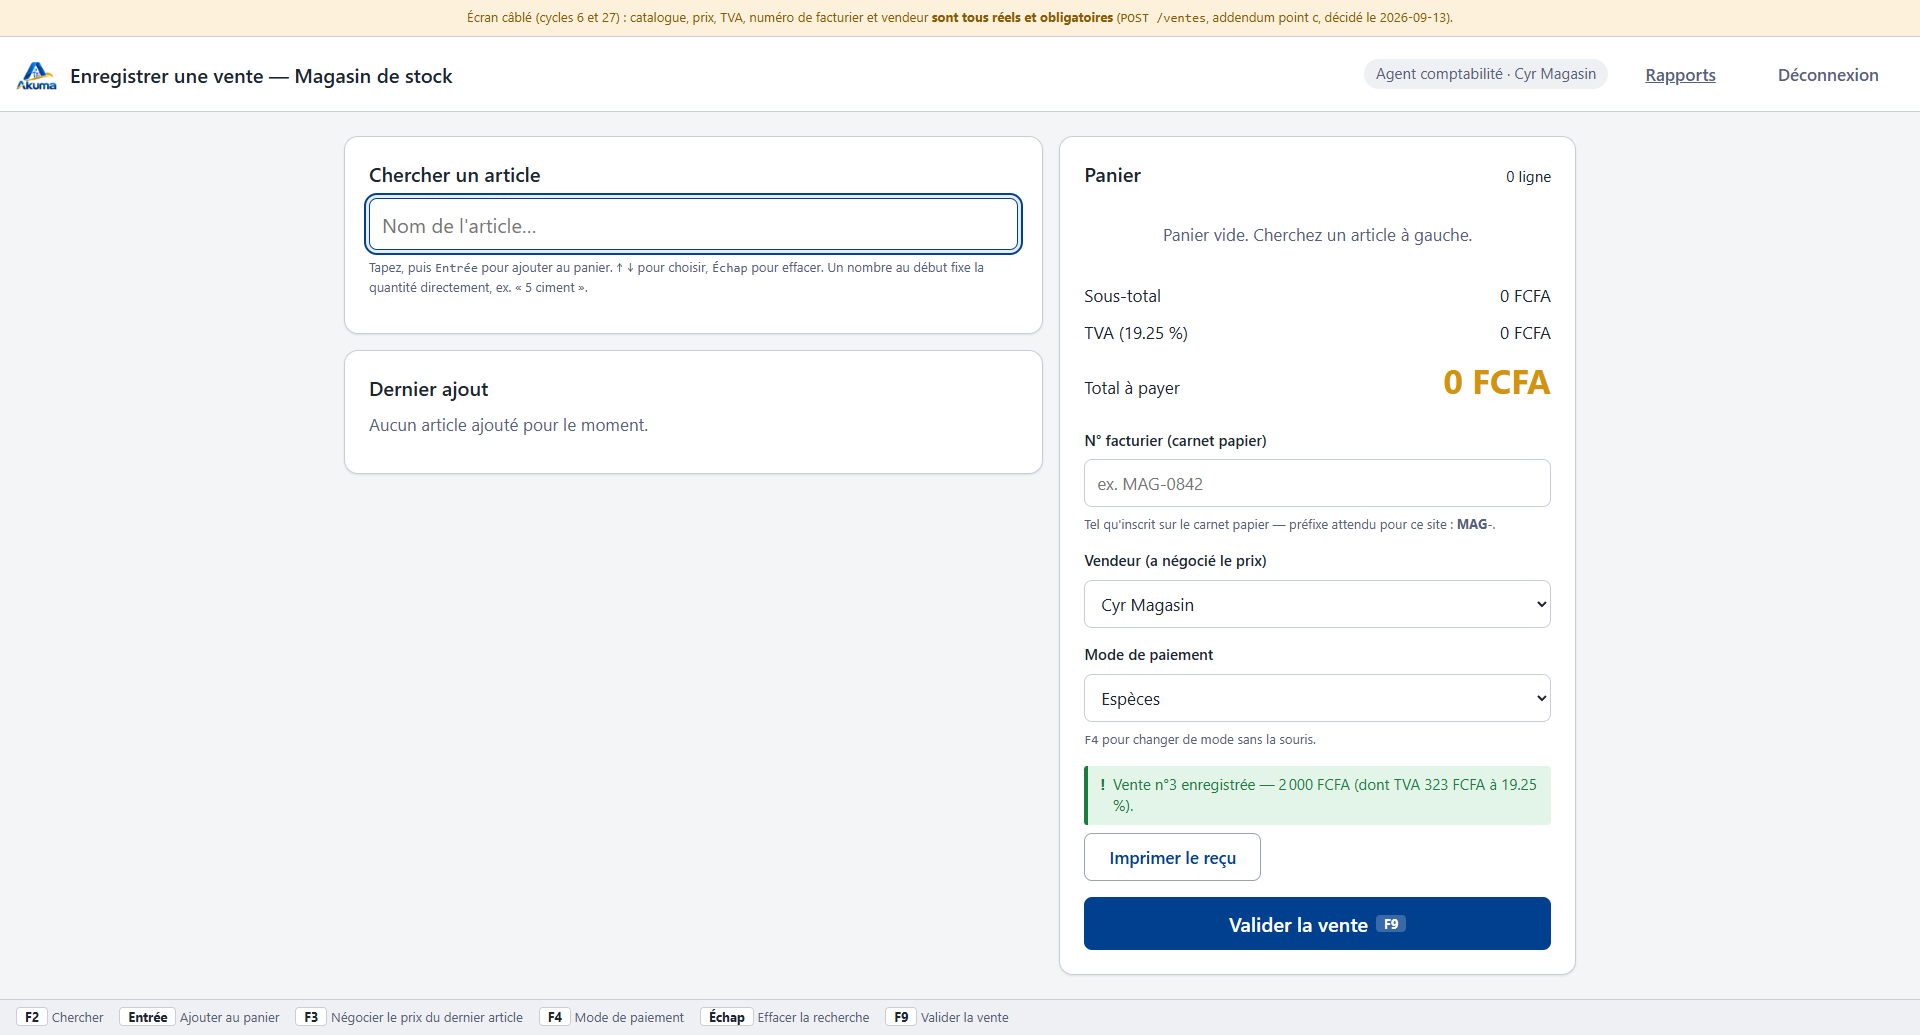
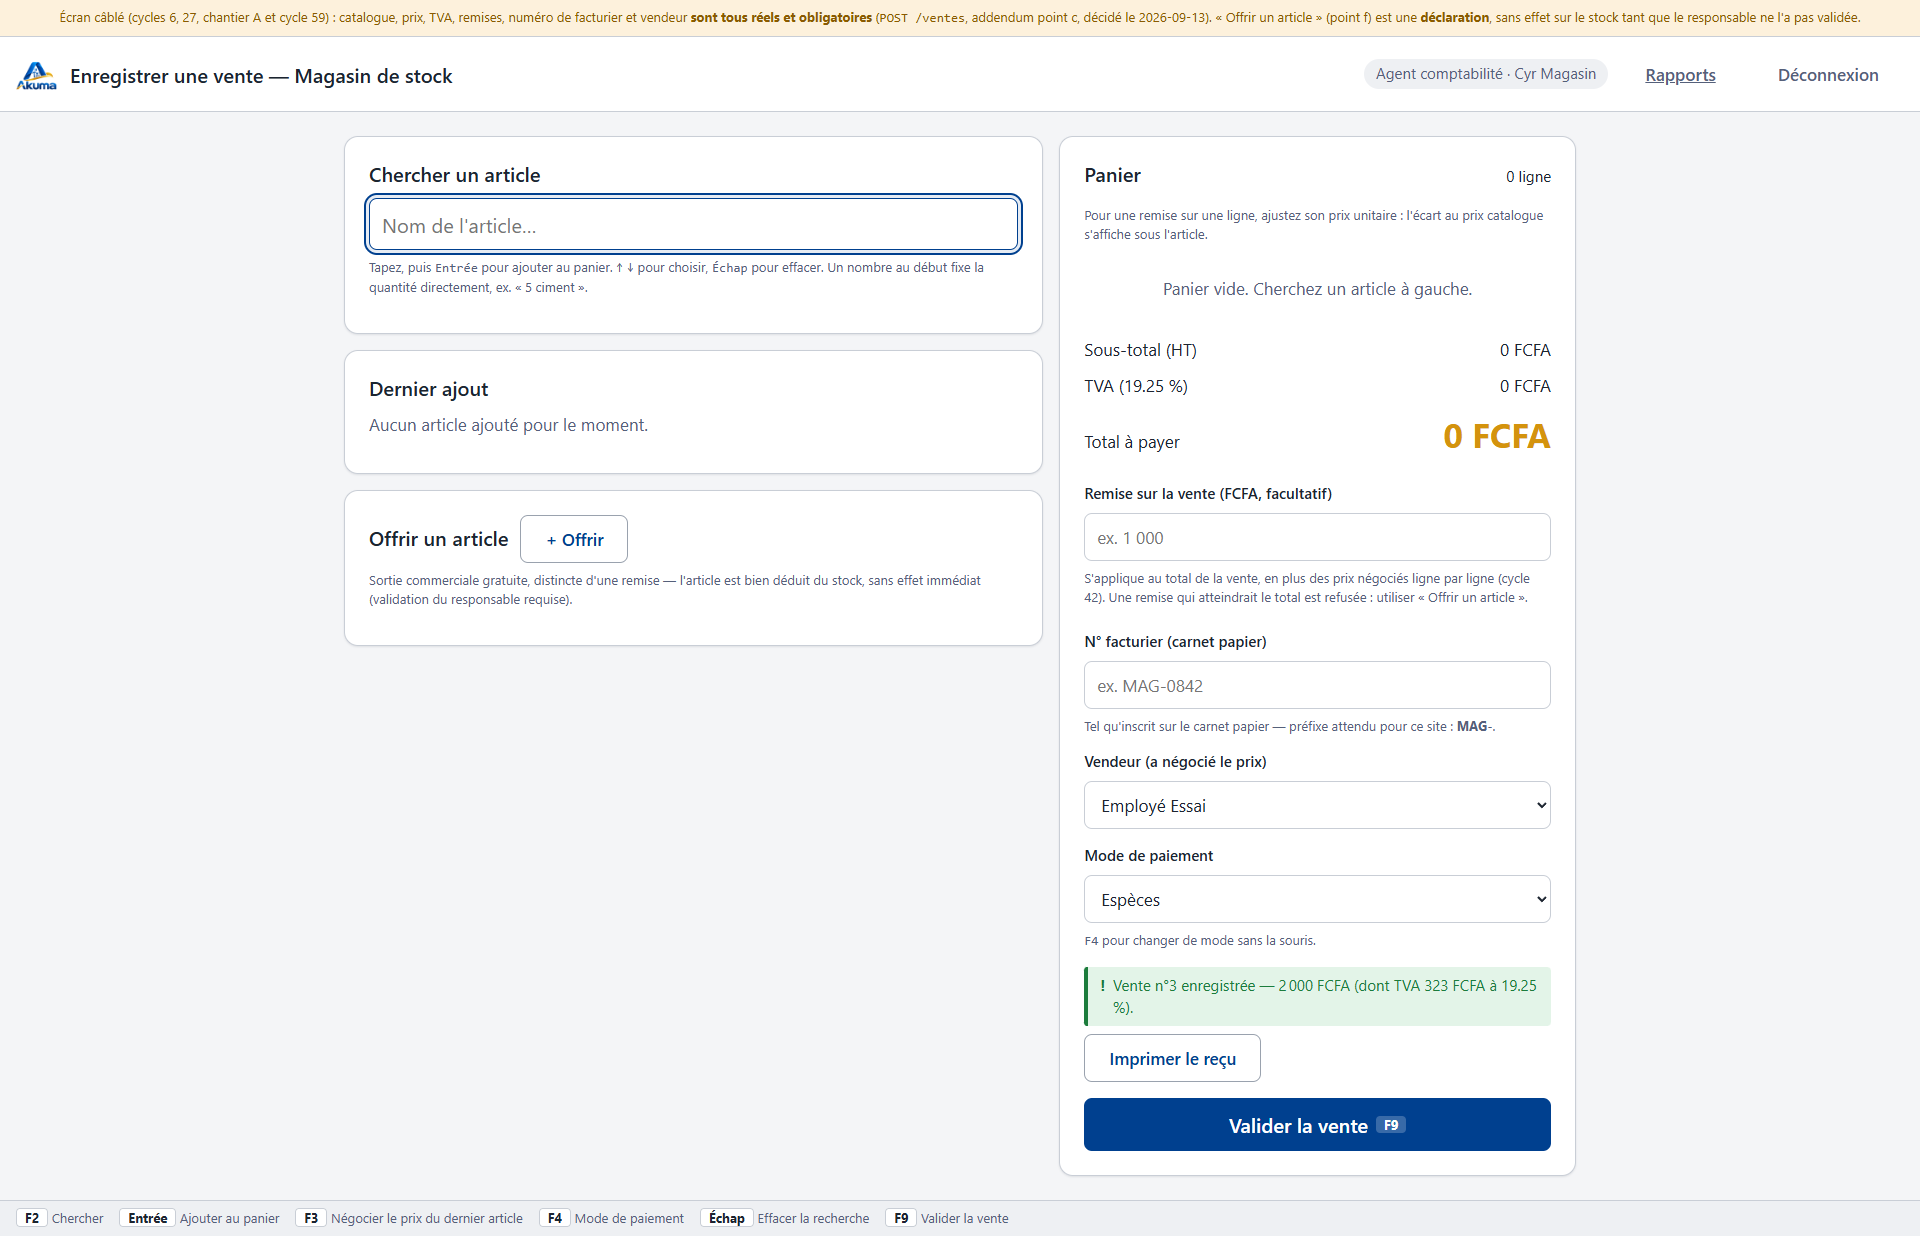
Saisie des remises dans vente.html — remise par ligne et remise globale, aperçu et garde-fou (cycle 59, C5)
Remise par ligne : l'écart au prix catalogue est affiché sous l'article
(la remise reste portée par le prix négocié, règle du serveur cycle 42,
jamais un champ en doublon). Remise globale : champ dédié, total articles
TTC, total réduit, TVA extraite, refus AVANT envoi si la remise atteint
le total (l'article offert couvre ce cas), montant rappelé dans la
confirmation et dans le message de succès.

Aucun changement serveur ni migration (backend livré au cycle 42).
Vérifié : Playwright vente 28/28, câblage 94/94, pytest 297/297.

diff --git a/maquette/vente.html b/maquette/vente.html
@@ -21,7 +21,7 @@
 </style>
 </head>
 <body>
-<div class="simu">Écran câblé (cycles 6, 27 et chantier A) : catalogue, prix, TVA, numéro de facturier et vendeur <strong>sont tous réels et obligatoires</strong> (<code>POST /ventes</code>, addendum point c, décidé le 2026-09-13). « Offrir un article » (point f) est une <strong>déclaration</strong>, sans effet sur le stock tant que le responsable ne l'a pas validée.</div>
+<div class="simu">Écran câblé (cycles 6, 27, chantier A et cycle 59) : catalogue, prix, TVA, remises, numéro de facturier et vendeur <strong>sont tous réels et obligatoires</strong> (<code>POST /ventes</code>, addendum point c, décidé le 2026-09-13). « Offrir un article » (point f) est une <strong>déclaration</strong>, sans effet sur le stock tant que le responsable ne l'a pas validée.</div>
 <div class="page">
   <header class="bandeau bandeau--vente">
     <img class="bandeau__marque" src="assets/akuma-logo-compact.png" alt="Akuma">
@@ -106,16 +106,37 @@
             <span class="lien-petit" id="compteur-lignes">0 ligne</span>
           </div>
 
+          <p class="champ__aide" style="margin-bottom:var(--e-2);">
+            Pour une remise sur une ligne, ajustez son prix unitaire : l'écart au prix catalogue s'affiche sous l'article.
+          </p>
+
           <div id="panier"></div>
 
+          <div class="total-ligne" id="ligne-total-articles" hidden>
+            <span>Total articles (TTC)</span><span class="montant" id="total-articles">0 FCFA</span>
+          </div>
+          <div class="total-ligne" id="ligne-remise-globale" hidden>
+            <span>Remise sur la vente</span><span class="montant" id="remise-globale-affichee">0 FCFA</span>
+          </div>
           <div class="total-ligne">
-            <span>Sous-total</span><span class="montant" id="sous-total">0 FCFA</span>
+            <span>Sous-total (HT)</span><span class="montant" id="sous-total">0 FCFA</span>
           </div>
           <div class="total-ligne">
             <span>TVA (<span id="taux-tva">0</span> %)</span><span class="montant" id="montant-tva">0 FCFA</span>
           </div>
           <div class="total-ligne total-ligne--grand">
             <span>Total à payer</span><span class="montant" id="total-ttc">0 FCFA</span>
+          </div>
+
+          <div class="champ" style="margin-top:var(--e-5);">
+            <label class="champ__label" for="remise-globale">Remise sur la vente (FCFA, facultatif)</label>
+            <input class="champ__saisie" id="remise-globale" type="number" min="0" step="50"
+                   inputmode="numeric" placeholder="ex. 1 000">
+            <p class="champ__aide">
+              S'applique au total de la vente, en plus des prix négociés ligne par ligne (cycle 42).
+              Une remise qui atteindrait le total est refusée : utiliser « Offrir un article ».
+            </p>
+            <div id="zone-erreur-remise" class="erreur-champ" hidden style="margin-top:var(--e-2);"></div>
           </div>
 
           <div class="champ" id="champ-site" style="margin-top:var(--e-5);" hidden>
@@ -216,6 +237,7 @@
   const siteVenteEl = $("site-vente");
   const facturierEl = $("numero-facturier");
   const vendeurEl   = $("vendeur");
+  const remiseGlobaleEl = $("remise-globale");
 
   // Le responsable couvre les deux sites : il doit choisir celui de CETTE
   // vente. Un agent comptabilité a déjà un site en session, la question ne
@@ -474,6 +496,10 @@
       panier.push({
         id: article.id, nom: article.nom, unite: article.unite,
         quantite: quantite, prixUnitaire: article.prixCatalogue,
+        // Prix catalogue conservé pour afficher la remise de la ligne : le
+        // serveur applique exactement la même règle (cycle 42) — la remise
+        // est l'écart entre catalogue et prix négocié, jamais un champ séparé.
+        prixCatalogue: article.prixCatalogue,
       });
     }
     dernierArticleAjouteId = article.id;
@@ -494,6 +520,22 @@
     panier = panier.filter((l) => l.id !== id);
     rendrePanier();
     recherche.focus();
+  }
+
+  // Remise d'une ligne = écart au prix catalogue (règle du serveur, cycle
+  // 42). Affichée sous l'article pour que la remise issue du prix négocié
+  // soit visible AVANT validation, au lieu de n'exister que sur le reçu.
+  function texteRemiseLigne(l) {
+    if (!l.prixCatalogue || l.prixUnitaire >= l.prixCatalogue) return "";
+    const remise = l.prixCatalogue - l.prixUnitaire;
+    const pct = Math.round((remise / l.prixCatalogue) * 1000) / 10;
+    return "Catalogue " + fcfa(l.prixCatalogue) + " · remise " + fcfa(remise)
+      + " (" + pct.toLocaleString("fr-FR") + " %)";
+  }
+
+  function remiseGlobaleValeur() {
+    const valeur = parseInt(remiseGlobaleEl.value || "0", 10);
+    return Number.isFinite(valeur) && valeur > 0 ? valeur : 0;
   }
 
   function rendrePanier() {
@@ -519,8 +561,14 @@
         uniteDiv.style.color = "var(--c-texte-doux)";
         uniteDiv.style.fontSize = "var(--t-sm)";
         uniteDiv.textContent = l.unite;
+        const remiseDiv = document.createElement("div");
+        remiseDiv.className = "panier__remise";
+        const texteRemise = texteRemiseLigne(l);
+        remiseDiv.textContent = texteRemise;
+        remiseDiv.hidden = !texteRemise;
         infos.appendChild(nomDiv);
         infos.appendChild(uniteDiv);
+        infos.appendChild(remiseDiv);
 
         const qteInput = document.createElement("input");
         qteInput.className = "panier__mini";
@@ -555,7 +603,13 @@
         ligne.appendChild(btnSup);
 
         qteInput.addEventListener("input", () => { l.quantite = Math.max(1, parseInt(qteInput.value || "1", 10)); majTotaux(); });
-        prixInput.addEventListener("input", () => { l.prixUnitaire = Math.max(0, parseInt(prixInput.value || "0", 10)); majTotaux(); });
+        prixInput.addEventListener("input", () => {
+          l.prixUnitaire = Math.max(0, parseInt(prixInput.value || "0", 10));
+          const texte = texteRemiseLigne(l);
+          remiseDiv.textContent = texte;
+          remiseDiv.hidden = !texte;
+          majTotaux();
+        });
         [qteInput, prixInput].forEach((inp) => inp.addEventListener("keydown", (e) => {
           if (e.key === "Enter") { e.preventDefault(); recherche.focus(); }
           if (e.key === "Escape") { e.preventDefault(); recherche.focus(); }
@@ -571,8 +625,12 @@
     // Les prix saisis sont TTC (addendum, point d, décidé cycle 6) : la TVA
     // s'EXTRAIT du total, elle ne s'ajoute pas par-dessus — même formule que
     // server/app/routes/ventes.py, pour que cet aperçu corresponde exactement
-    // à ce que le serveur confirmera après validation.
-    const totalTtc = panier.reduce((s, l) => s + l.quantite * l.prixUnitaire, 0);
+    // à ce que le serveur confirmera après validation. La remise globale
+    // (cycle 42, mécanisme distinct des prix négociés) réduit d'abord le TTC
+    // de la vente ; la TVA est ensuite extraite de ce total réduit.
+    const totalArticles = panier.reduce((s, l) => s + l.quantite * l.prixUnitaire, 0);
+    const remiseGlobale = remiseGlobaleValeur();
+    const totalTtc = Math.max(0, totalArticles - remiseGlobale);
     const tva = TAUX_TVA > 0 ? Math.round(totalTtc * TAUX_TVA / (100 + TAUX_TVA)) : 0;
     const sousTotalHt = totalTtc - tva;
     $("sous-total").textContent  = fcfa(sousTotalHt);
@@ -580,7 +638,28 @@
     $("montant-tva").textContent = fcfa(tva);
     $("total-ttc").textContent   = fcfa(totalTtc);
     $("compteur-lignes").textContent = panier.length + (panier.length > 1 ? " lignes" : " ligne");
+
+    // Les deux lignes « avant remise » n'apparaissent que si une remise
+    // globale est réellement saisie — sinon l'écran reste exactement celui
+    // d'avant le cycle 59.
+    const remiseAffichee = remiseGlobale > 0 && panier.length > 0;
+    $("ligne-total-articles").hidden = !remiseAffichee;
+    $("ligne-remise-globale").hidden = !remiseAffichee;
+    $("total-articles").textContent = fcfa(totalArticles);
+    $("remise-globale-affichee").textContent = fcfa(remiseGlobale);
+
+    const remiseTropGrande = remiseAffichee && remiseGlobale >= totalArticles;
+    const zoneRemise = $("zone-erreur-remise");
+    zoneRemise.hidden = !remiseTropGrande;
+    if (remiseTropGrande) {
+      zoneRemise.textContent = "La remise globale ne peut pas atteindre ni dépasser le total de la vente.";
+    }
   }
+
+  remiseGlobaleEl.addEventListener("input", majTotaux);
+  remiseGlobaleEl.addEventListener("keydown", (e) => {
+    if (e.key === "Enter" || e.key === "Escape") { e.preventDefault(); recherche.focus(); }
+  });
 
   // --- Validation (au plus une confirmation), RÉELLE (POST /ventes) ---
   let enAttenteConfirmation = false;
@@ -602,6 +681,14 @@
     if (panier.length === 0) {
       zoneConfirmation.hidden = false;
       zoneConfirmation.textContent = "Le panier est vide : rien à valider.";
+      return;
+    }
+    const totalArticles = panier.reduce((s, l) => s + l.quantite * l.prixUnitaire, 0);
+    const remiseGlobale = remiseGlobaleValeur();
+    if (remiseGlobale > 0 && remiseGlobale >= totalArticles) {
+      zoneConfirmation.hidden = false;
+      zoneConfirmation.textContent = "La remise globale ne peut pas atteindre ni dépasser le total de la vente.";
+      remiseGlobaleEl.focus();
       return;
     }
     if (!session.site_id && !siteVenteEl.value) {
@@ -629,10 +716,11 @@
       enAttenteConfirmation = true;
       zoneConfirmation.hidden = false;
       const estCredit = paiementEl.value === "credit_client";
+      const mentionRemise = remiseGlobale > 0 ? " après remise de " + fcfa(remiseGlobale) : "";
       zoneConfirmation.textContent =
         (estCredit
-          ? "Confirmer la vente à crédit de " + $("total-ttc").textContent
-          : "Confirmer l'encaissement de " + $("total-ttc").textContent
+          ? "Confirmer la vente à crédit de " + $("total-ttc").textContent + mentionRemise
+          : "Confirmer l'encaissement de " + $("total-ttc").textContent + mentionRemise
             + " (" + paiementEl.options[paiementEl.selectedIndex].text + ")")
         + " ? Appuyez de nouveau sur F9 ou sur le bouton.";
       btnValider.textContent = estCredit ? "Confirmer la vente à crédit" : "Confirmer l'encaissement";
@@ -643,24 +731,32 @@
     envoiEnCours = true;
     btnValider.disabled = true;
     try {
+      const corpsEnvoi = {
+        site_id: session.site_id || Number(siteVenteEl.value),
+        mode_paiement: paiementEl.value,
+        numero_facturier: facturierEl.value.trim(),
+        vendeur_id: Number(vendeurEl.value),
+        client_id: paiementEl.value === "credit_client" ? Number(clientEl.value) : null,
+        // Remise PAR LIGNE : le prix négocié la porte déjà — le serveur la
+        // déduit du catalogue (cycle 42), un champ de remise séparé ferait
+        // doublon. La remise globale, elle, est un mécanisme distinct.
+        lignes: panier.map((l) => ({
+          article_id: l.id, quantite: l.quantite, prix_unitaire: l.prixUnitaire,
+        })),
+      };
+      if (remiseGlobale > 0) corpsEnvoi.remise_globale_montant = remiseGlobale;
       const corps = await appelApi("/ventes", {
         method: "POST",
-        body: JSON.stringify({
-          site_id: session.site_id || Number(siteVenteEl.value),
-          mode_paiement: paiementEl.value,
-          numero_facturier: facturierEl.value.trim(),
-          vendeur_id: Number(vendeurEl.value),
-          client_id: paiementEl.value === "credit_client" ? Number(clientEl.value) : null,
-          lignes: panier.map((l) => ({
-            article_id: l.id, quantite: l.quantite, prix_unitaire: l.prixUnitaire,
-          })),
-        }),
+        body: JSON.stringify(corpsEnvoi),
       });
 
       zoneConfirmation.hidden = true;
       zoneSucces.hidden = false;
       let message = "Vente n°" + corps.vente_id + " enregistrée — " + fcfa(corps.total_ttc)
         + " (dont TVA " + fcfa(corps.montant_tva) + " à " + corps.taux_tva + " %).";
+      if (corps.remise_totale > 0) {
+        message += " Remise totale : " + fcfa(corps.remise_totale) + ".";
+      }
       if (corps.ecarts.length > 0) {
         message += " Stock insuffisant sur " + corps.ecarts.length
           + " article(s) : la vente est quand même enregistrée, l'écart est remonté au responsable.";
@@ -676,6 +772,7 @@
       );
 
       panier = [];
+      remiseGlobaleEl.value = "";
       rendrePanier();
       $("dernier-ajout").textContent = "Aucun article ajouté pour le moment.";
       // Le numéro de facturier identifie UNE ligne du carnet papier — jamais

diff --git a/maquette/styles.css b/maquette/styles.css
@@ -224,6 +224,12 @@ a { color: var(--c-primaire); }
   border-bottom: 1px solid var(--c-bordure);
 }
 .panier__nom { font-weight: var(--poids-demi); }
+/* Cycle 59 : remise de la ligne (écart au prix catalogue, déduite du prix
+   négocié) — visible avant validation, sous l'article concerné. */
+.panier__remise {
+  font-size: var(--t-sm); color: var(--c-attention);
+  font-variant-numeric: tabular-nums;
+}
 .panier__mini {
   width: 84px; height: var(--champ-hauteur); text-align: right;
   padding: 0 var(--e-2); font-size: var(--t-base); font-family: inherit;
